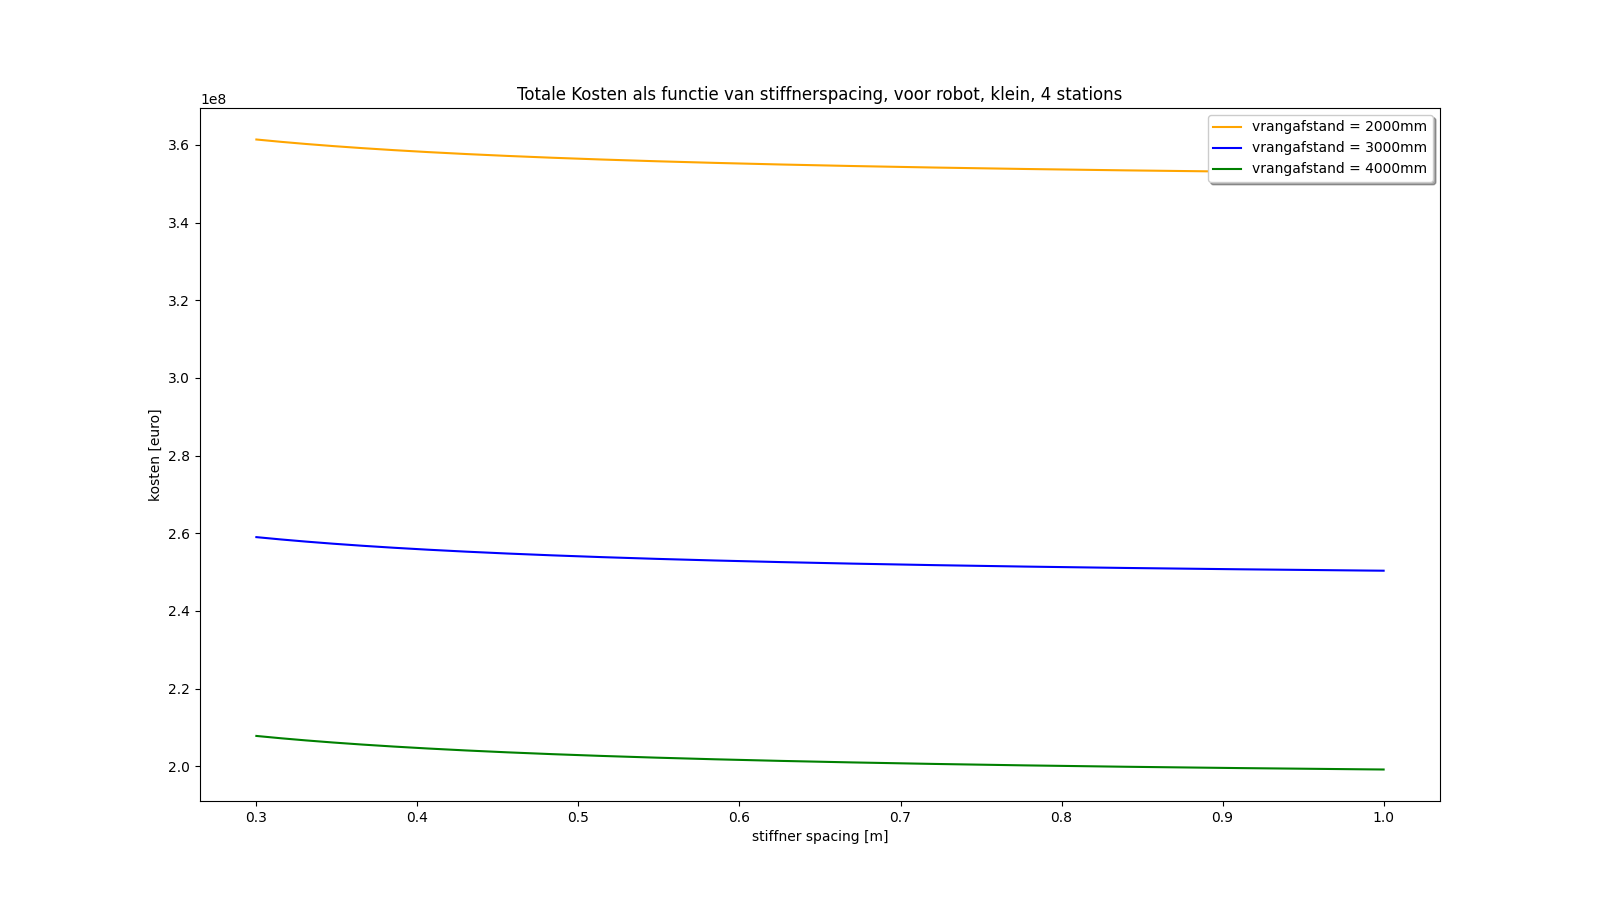
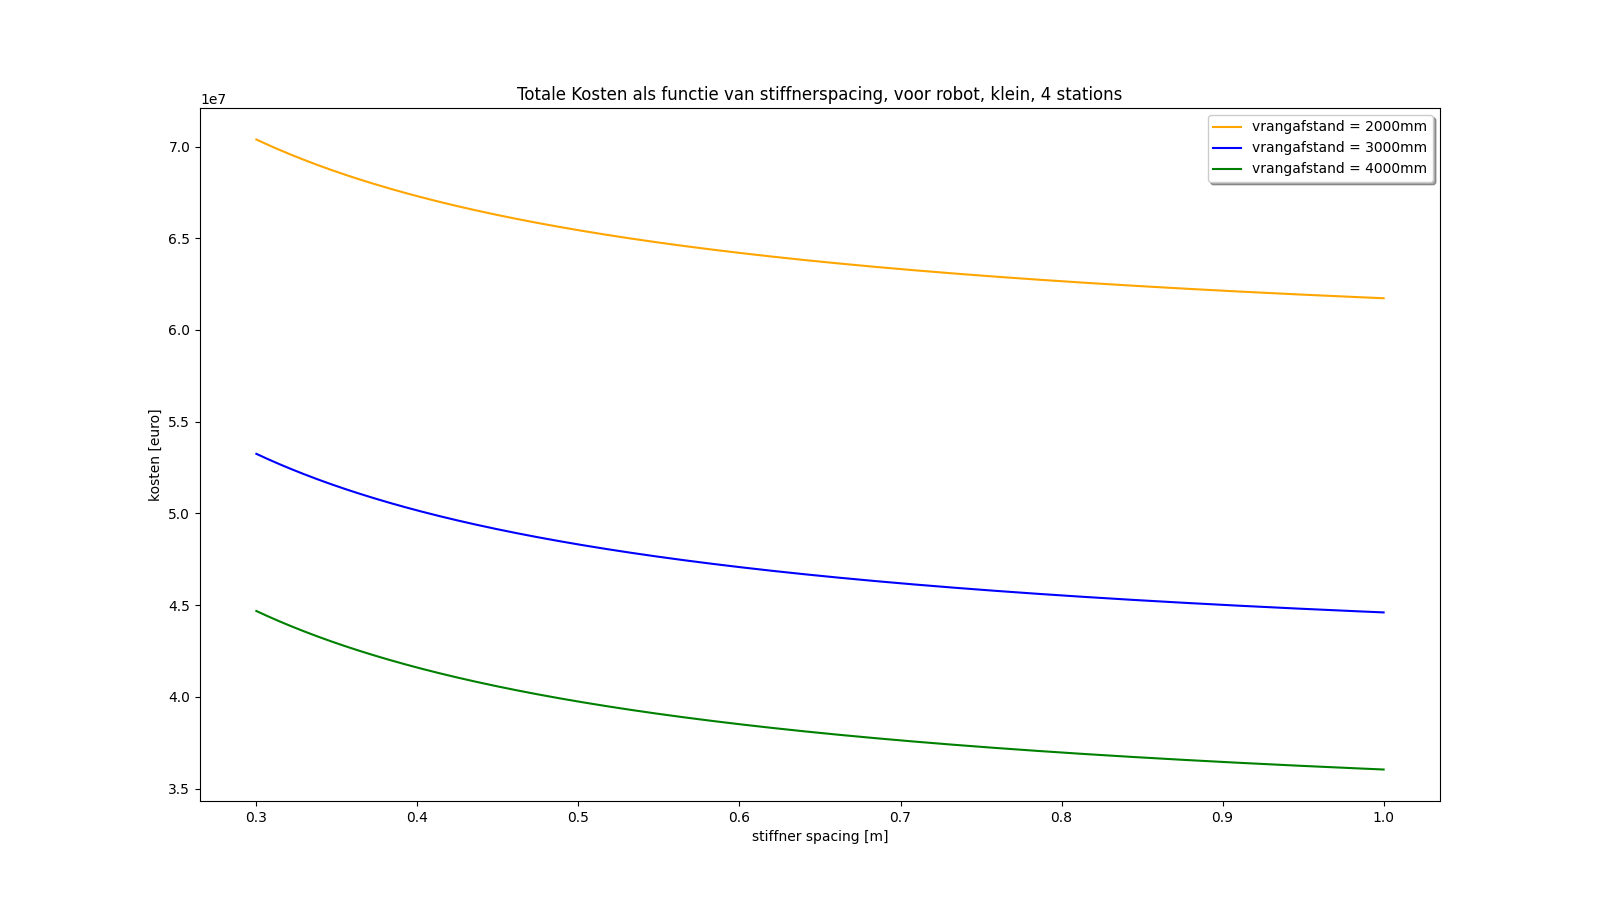
misschienklopt t nu

diff --git a/plaatproductie/plaatproductie nieuw.py b/plaatproductie/plaatproductie nieuw.py
@@ -34,7 +34,7 @@ class totaal():
         Llas_vrang_verti = hvrang*nkruising*4 +nspant*hspant*2
         Llas = Llas_plaat + Llas_spant + Llas_vrang_hori + Llas_zaathout + Llas_vrang_verti
 
-        materiaal = 35521200+tp + 3415500/sg + 3552120*A/sg - 7488000*A_bulb + 1138500+3900*tp*Llas
+        materiaal = 35521200*tp + 3415500/sg + 3552120*A_bulb/ss - 7488000*A_bulb + 1138500+3900*tp*Llas
 
         personeel = capaciteit*(150+37.5/ss+600/sg)
 
@@ -56,7 +56,7 @@ class totaal():
         Llas_vrang_verti = hvrang*nkruising*4 +nspant*hspant*2
         Llas = Llas_plaat + Llas_spant + Llas_vrang_hori + Llas_zaathout + Llas_vrang_verti
 
-        materiaal = 35521200+tp + 3415500/sg + 3552120*2*A/sg - 7488000*A_bulb + 1138500+3900*tp*Llas
+        materiaal = 35521200*tp + 3415500/sg + 3552120*2*A_bulb/sg - 7488000*A_bulb + 1138500+3900*tp*Llas
 
         personeel = capaciteit*(150+15/ss+600/sg)
 
@@ -78,7 +78,7 @@ class totaal():
         Llas_vrang_verti = hvrang*nkruising*4 +nspant*hspant*2
         Llas = Llas_plaat + Llas_spant + Llas_vrang_hori + Llas_zaathout + Llas_vrang_verti
 
-        materiaal = 35521200+tp + 3415500/sg + 3552120*A/sg - 7488000*A_bulb + 1138500+3900*tp*Llas
+        materiaal = 35521200*tp + 3415500/sg + 3552120*A_bulb/sg - 7488000*A_bulb + 1138500+3900*tp*Llas
 
         personeel = capaciteit*(45+81/ss+2160/sg)
 
@@ -100,7 +100,7 @@ class totaal():
         Llas_vrang_verti = hvrang*nkruising*4 +nspant*hspant*2
         Llas = Llas_plaat + Llas_spant + Llas_vrang_hori + Llas_zaathout + Llas_vrang_verti
 
-        materiaal = 35521200+tp + 3415500/sg + 3552120*2*A/sg - 7488000*A_bulb + 1138500+3900*tp*Llas
+        materiaal = 35521200*tp + 3415500/sg + 3552120*2*A_bulb/sg - 7488000*A_bulb + 1138500+3900*tp*Llas
 
         personeel = capaciteit*(45+81/ss+4320/sg)
 
@@ -122,7 +122,7 @@ class totaal():
         Llas_vrang_verti = hvrang*nkruising*4 +nspant*hspant*2
         Llas = Llas_plaat + Llas_spant + Llas_vrang_hori + Llas_zaathout + Llas_vrang_verti
 
-        materiaal = 35521200+tp + 3415500/sg + 3552120*A/sg - 7488000*A_bulb + 1138500+3900*tp*Llas
+        materiaal = 35521200*tp + 3415500/sg + 3552120*A_bulb/sg - 7488000*A_bulb + 1138500+3900*tp*Llas
 
         personeel = capaciteit*(45+81/ss+2160/sg)
 
@@ -144,7 +144,7 @@ class totaal():
         Llas_vrang_verti = hvrang*nkruising*4 +nspant*hspant*2
         Llas = Llas_plaat + Llas_spant + Llas_vrang_hori + Llas_zaathout + Llas_vrang_verti
 
-        materiaal = 35521200+tp + 3415500/sg + 3552120*2*A/sg - 7488000*A_bulb + 1138500+3900*tp*Llas
+        materiaal = 35521200*tp + 3415500/sg + 3552120*2*A_bulb/sg - 7488000*A_bulb + 1138500+3900*tp*Llas
 
         personeel = capaciteit*(45+81/ss+4320/sg)
 
@@ -167,7 +167,7 @@ def plot(self,titel):
     figure.savefig("./plaatproductie/"+titel+".png")
     #figure.colorbar(surf,shrink=0.5,aspect=5)
     #ax.legend(loc = "lower right", shadow = True, fontsize="large")
-    
+
 plot(totaal.groot_robot_5,"robot, groot, 5 stations")
 plot(totaal.groot_robot_4,"robot, groot, 4 stations")
 plot(totaal.klein_robot_5,"robot, klein, 5 stations")
